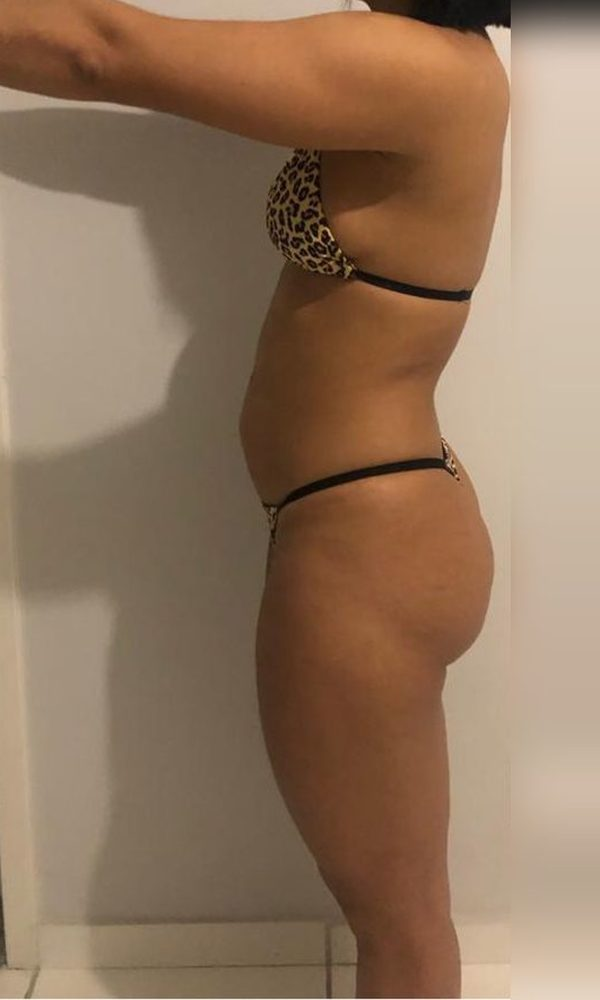
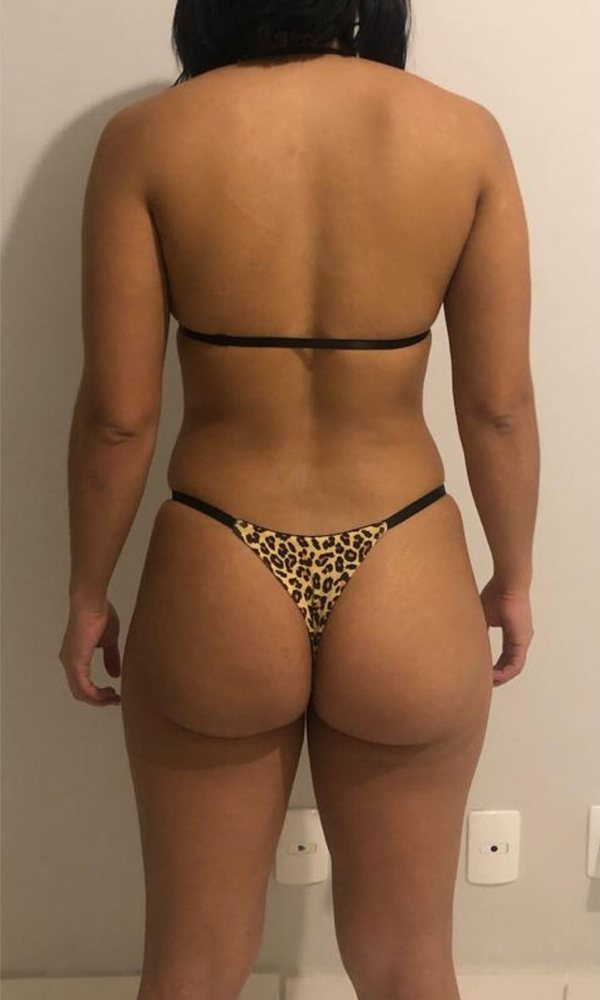
Adiciona os antes e depois 16 e 17 e troca o 12 por uma foto de costas

diff --git a/index.html b/index.html
@@ -393,10 +393,12 @@
         <button class="ba-thumb" type="button" aria-pressed="false" aria-label="Resultado 9" data-i="9" data-before="Antes do ganho de massa magra" data-after="Depois: ganho de definição e massa magra"><img src="images/rt9.jpg" alt="" loading="lazy"></button>
         <button class="ba-thumb" type="button" aria-pressed="false" aria-label="Resultado 10" data-i="10" data-before="Antes: abdômen sem definição" data-after="Depois: abdômen definido e ganho de massa"><img src="images/rt10.jpg" alt="" loading="lazy"></button>
         <button class="ba-thumb" type="button" aria-pressed="false" aria-label="Resultado 11" data-i="11" data-before="Antes do ganho de massa magra" data-after="Depois: ganho de massa magra nas pernas e no tronco"><img src="images/rt11.jpg" alt="" loading="lazy"></button>
-        <button class="ba-thumb" type="button" aria-pressed="false" aria-label="Resultado 12" data-i="12" data-before="Antes: abdômen e glúteos em perfil" data-after="Depois: glúteos e pernas mais definidos em perfil"><img src="images/rt12.jpg" alt="" loading="lazy"></button>
+        <button class="ba-thumb" type="button" aria-pressed="false" aria-label="Resultado 12" data-i="12" data-before="Antes: costas e glúteos" data-after="Depois: glúteos e pernas mais definidos"><img src="images/rt12.jpg" alt="" loading="lazy"></button>
         <button class="ba-thumb" type="button" aria-pressed="false" aria-label="Resultado 13" data-i="13" data-before="Antes: tronco e pernas, de frente" data-after="Depois: ganho de massa muscular e abdômen definido"><img src="images/rt13.jpg" alt="" loading="lazy"></button>
         <button class="ba-thumb" type="button" aria-pressed="false" aria-label="Resultado 14" data-i="14" data-before="Antes: abdômen e pernas, de frente" data-after="Depois: cintura mais fina e pernas definidas"><img src="images/rt14.jpg" alt="" loading="lazy"></button>
         <button class="ba-thumb" type="button" aria-pressed="false" aria-label="Resultado 15" data-i="15" data-before="Antes: tronco e pernas, de frente" data-after="Depois: ganho de massa muscular e abdômen definido"><img src="images/rt15.jpg" alt="" loading="lazy"></button>
+        <button class="ba-thumb" type="button" aria-pressed="false" aria-label="Resultado 16" data-i="16" data-before="Antes: abdômen e tronco, de frente" data-after="Depois: abdômen definido e cintura mais fina"><img src="images/rt16.jpg" alt="" loading="lazy"></button>
+        <button class="ba-thumb" type="button" aria-pressed="false" aria-label="Resultado 17" data-i="17" data-before="Antes: costas e glúteos" data-after="Depois: costas e cintura mais definidas"><img src="images/rt17.jpg" alt="" loading="lazy"></button>
       </div>
     </div>
   </section>
